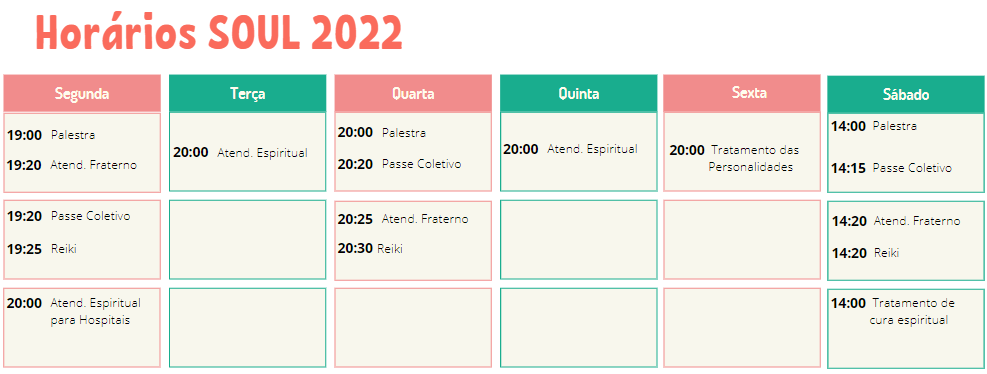
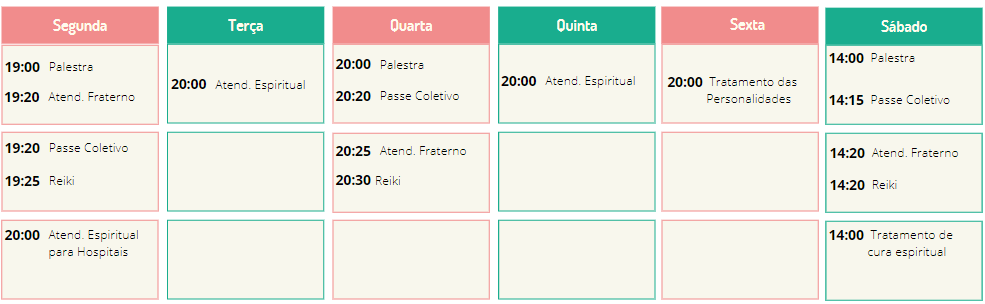
secao horarios

diff --git a/home.html b/home.html
@@ -33,10 +33,10 @@
             <a class="nav-link" href="#about-us">Quem somos</a>
           </li>
           <li class="nav-item">
-            <a class="nav-link" href="#activities">Atividades</a>
+            <a class="nav-link" href="#activities">Horários</a>
           </li>
           <li class="nav-item">
-            <a class="nav-link" href="#contato">Contato</a>
+            <a class="nav-link" href="#contact">Contato</a>
           </li>
         </ul>
       </div>
@@ -139,8 +139,19 @@
       </div>
     </div>
   </div>
+  <div id="activities" class="divider"></div>
+  <div class="container">
+    <div class="row times">
+      <div class="col-lg-11 col-md-11">
+        <div class="activity-item">
+          <h3>Horários</h3>
+          <img class="times-img" src="assets/images/horarios2022.png">
+        </div>
+      </div>
+    </div>
+  </div>
   <div class="divider"></div>
-  <div id="activities">
+  <div class="activities">
     <div class="container">
       <div class="row">
         <div class="col-lg-12">
@@ -266,56 +277,40 @@
         </div>
       </div>
     </div>
-    </div>
-    <div class="row border times">
-        <div class="col-lg-11 col-md-11">
-          <div class="activity-item">
-            <img class="times-img" src="assets/images/horarios2022.png">
-          </div>
-        </div>
-      </div>
-    <div class="footer_logo container">
-      <a href="#inicio" style="text-decoration: none">
-        <img src="assets/images/ico.png" />
-      </a>
-      <a
-        class="navbar-brand fs-1 fs-2 fs-5 fs-6 text gradient-title"
-        style="font-size: 24px !important"
-        href="#inicio"
-        >SOUL</a
-      >
-    </div>
-    <div class="footer_contato container">
-      <p>
-        <br>E-mail: <a href="mailto:centroespiritasoul@gmail.com">centroespiritasoul@gmail.com</a><br>
-        Telefone: (54) 9 9195 1474 - <b>Apenas Whatsapp</b>
-        <a href="https://web.whatsapp.com/send?phone=5554991951474"
-        style="text-decoration: none"
-        target="_blank"><i class="fa fa-whatsapp fa-2x me-3" style="color: #25d366; margin: 0 5px !important;">
-        </i></a><br>
-        Endereço: Rua Campos júnior, nº 823, Bairro Rio Branco | Caxias do Sul/RS 
-        <a href="https://www.google.com.br/maps/place/R.+Campos+J%C3%BAnior,+823+-+Rio+Branco,+Caxias+do+Sul+-+RS,+95097-620/@-29.1769425,-51.1913862,17z/data=!3m1!4b1!4m5!3m4!1s0x951ea3308f763c55:0x36880244144fe1d3!8m2!3d-29.1769472!4d-51.1891975" 
-        target="_blank"><i class="fa fa-map-marker fa-2x me-3" style="color: #FF0000; margin: 0 5px !important;"></i>
-        </a><br>
-        </p>
-    </div>
-    <div class="redes_sociais container">
-      <a
-        href="https://www.facebook.com/CentroEspiritaSoul/"
-        style="text-decoration: none"
-        target="_blank"
-      >
-        <i class="fa fa-facebook-f fa-2x me-3" style="color: #3b5998"></i>
-      </a>
-      <a
-        href="https://instagram.com/centroespiritasoul"
-        style="text-decoration: none"
-        target="_blank"
-      >
-        <i class="fa fa-instagram fa-2x me-3" style="color: #ac2bac"></i>
-      </a>
   </div>
-  <div class="divider"></div>
+
+  <div id="contact" class="footer_logo container">
+    <a href="#inicio" style="text-decoration: none">
+      <img src="assets/images/ico.png" />
+    </a>
+    <a class="navbar-brand fs-1 fs-2 fs-5 fs-6 text gradient-title" style="font-size: 24px !important"
+      href="#inicio">SOUL</a>
+  </div>
+  <div class="footer_contato container">
+    <p>
+      <br>E-mail: <a href="mailto:centroespiritasoul@gmail.com">centroespiritasoul@gmail.com</a><br>
+      Grupo de whatsapp para receber informações do SOUL
+      <a href="https://chat.whatsapp.com/FEyAiHphdHq7yc4JiKlP4O" style="text-decoration: none" target="_blank"><i
+        class="fa fa-whatsapp fa-2x me-3" style="color: #25d366; margin: 0 5px !important;">
+      </i></a><br>
+      Telefone: (54) 9 9195 1474 - <b>Apenas Whatsapp</b>
+      <a href="https://web.whatsapp.com/send?phone=5554991951474" style="text-decoration: none" target="_blank"><i
+          class="fa fa-whatsapp fa-2x me-3" style="color: #25d366; margin: 0 5px !important;">
+        </i></a><br>
+      Endereço: Rua Campos júnior, nº 823, Bairro Rio Branco | Caxias do Sul/RS
+      <a href="https://www.google.com.br/maps/place/R.+Campos+J%C3%BAnior,+823+-+Rio+Branco,+Caxias+do+Sul+-+RS,+95097-620/@-29.1769425,-51.1913862,17z/data=!3m1!4b1!4m5!3m4!1s0x951ea3308f763c55:0x36880244144fe1d3!8m2!3d-29.1769472!4d-51.1891975"
+        target="_blank"><i class="fa fa-map-marker fa-2x me-3" style="color: #FF0000; margin: 0 5px !important;"></i>
+      </a><br>
+    </p>
+  </div>
+  <div class="redes_sociais container">
+    <a href="https://www.facebook.com/CentroEspiritaSoul/" style="text-decoration: none" target="_blank">
+      <i class="fa fa-facebook-f fa-2x me-3" style="color: #3b5998"></i>
+    </a>
+    <a href="https://instagram.com/centroespiritasoul" style="text-decoration: none" target="_blank">
+      <i class="fa fa-instagram fa-2x me-3" style="color: #ac2bac"></i>
+    </a>
+  </div>
 </body>
 
 </html>

diff --git a/assets/css/style.css b/assets/css/style.css
@@ -73,8 +73,7 @@
 }
 
 .divider{
-    margin-top: 150px;
-    margin-bottom: 150px;
+  height: 7em;
 }
 
 .divider-grid{
@@ -82,17 +81,17 @@
   margin-bottom: 100px;
 }
 
-#activities{
+.activities{
   background: rgb(255,255,235);
   padding-top: 7em;
   
 }
 
-#activities .title{
+.activities .title{
   text-align: center;
 }
 
-#activities .title p{
+.activities .title p{
   padding-top: 20px;
 }
 
@@ -108,6 +107,10 @@
   .mobile-hidden {
     display: none;
   }
+}
+
+.footer_logo{
+margin-top: 50px;
 }
 
 .footer_logo img {
@@ -143,10 +146,10 @@
   margin-right: 0;
 }
 
-.times{
-  padding: 0px;
-  margin: 0px;
-}
 .times-img{
-  width: 80%;
+  width: 100%;
+  height: 80%;
+}
+.redes_sociais{
+  margin-bottom: 50px;
 }
